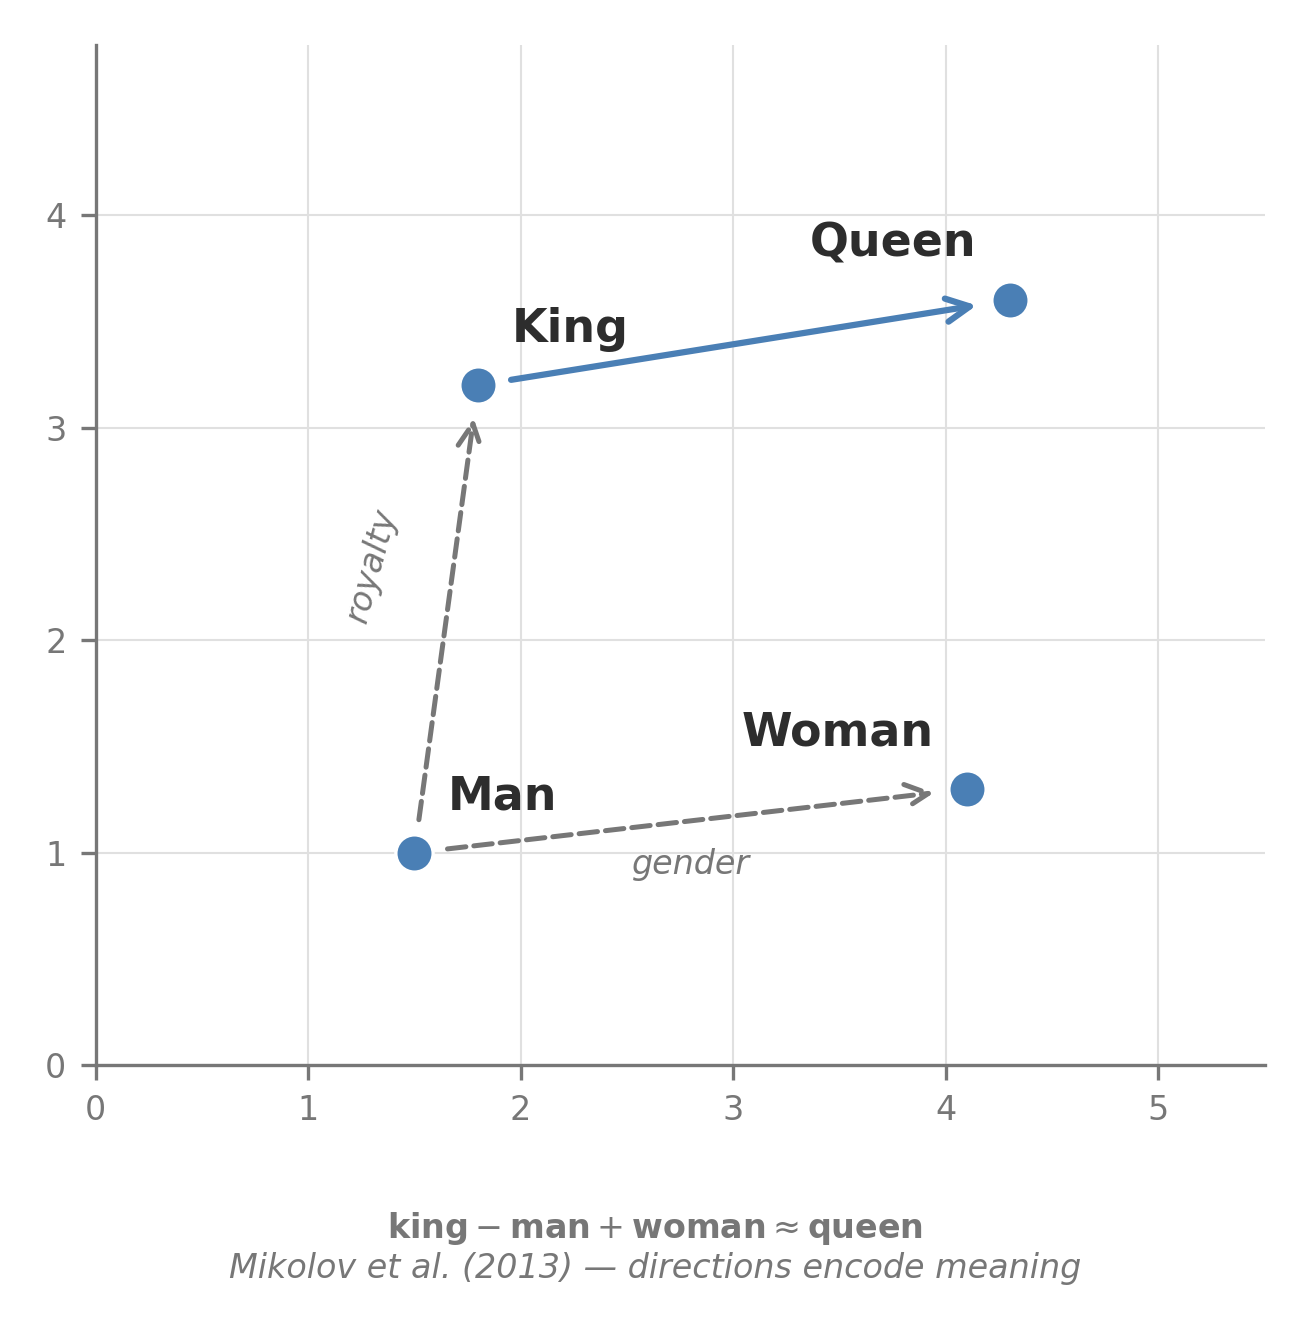
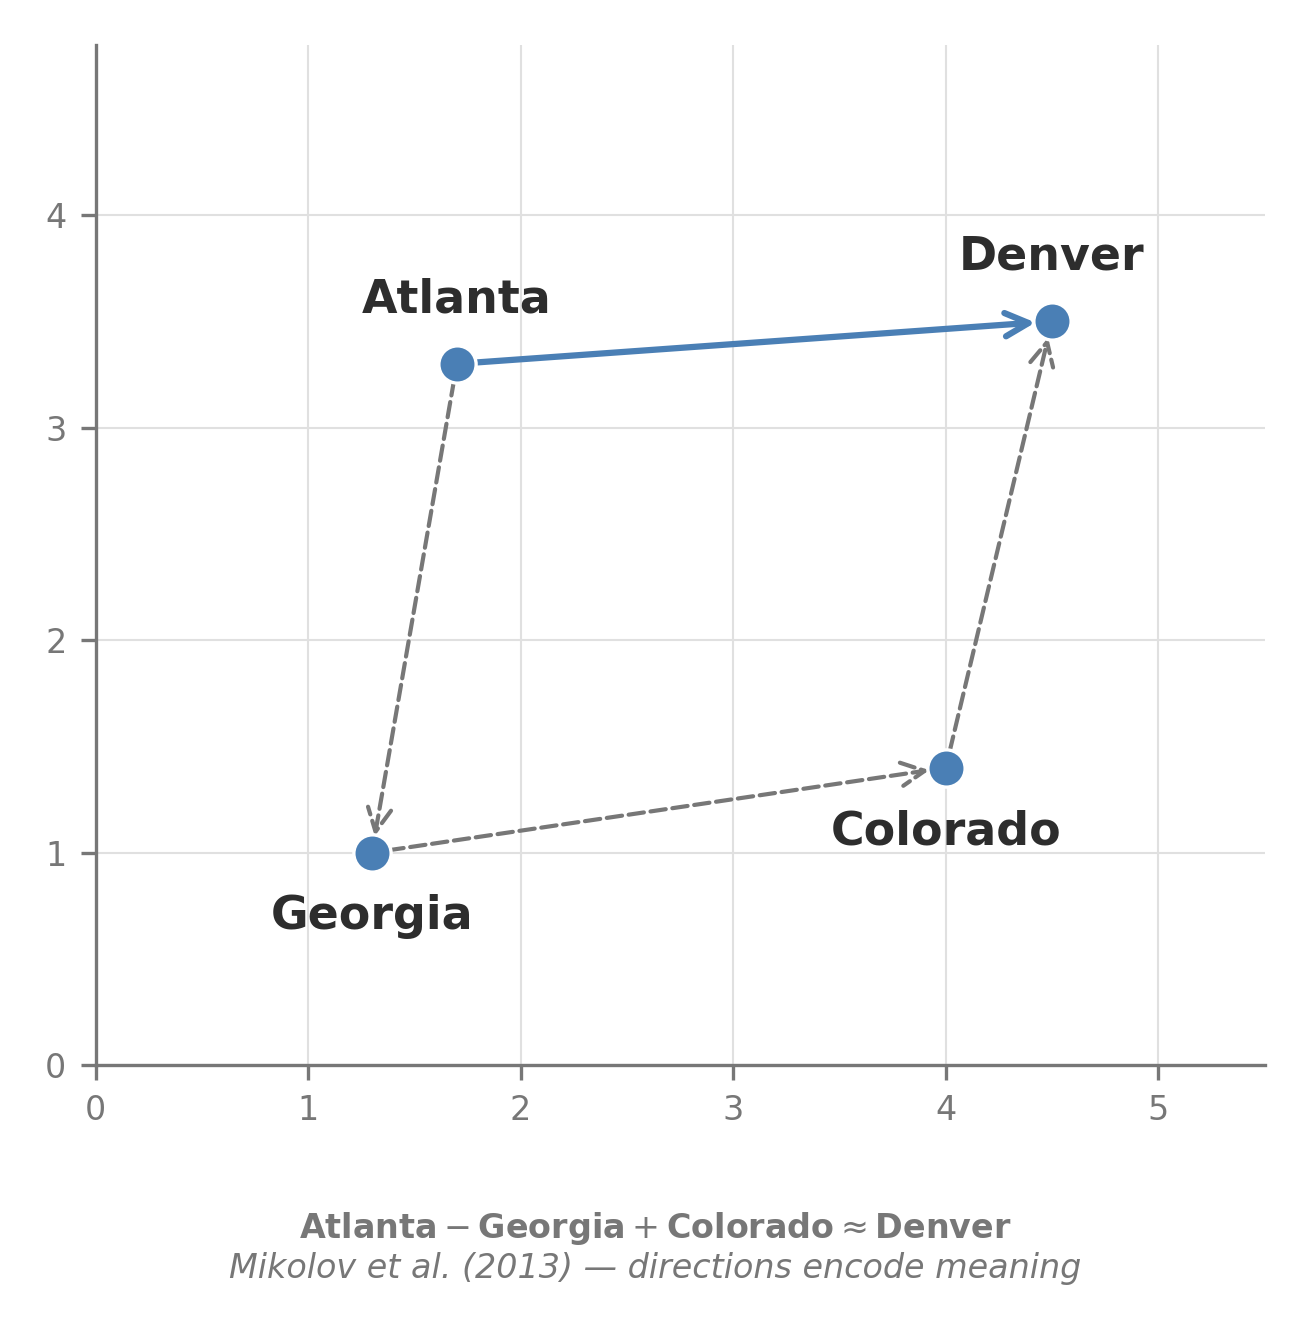
v0.7.10.4: Fig9 swap to Atlanta/Georgia/Colorado/Denver analogy

diff --git a/figures/fig9_word_analogy.py b/figures/fig9_word_analogy.py
@@ -1,5 +1,5 @@
 """
-Figure 9 — Word analogy illustration (King-Queen parallelogram)
+Figure 9 — Word analogy illustration (Atlanta/Denver parallelogram)
 Target: Slide 3 (right panel)
 Classic word embedding analogy from Mikolov et al. (2013).
 This is an ILLUSTRATION of the concept, not computed from MPNet.
@@ -14,12 +14,11 @@ from figures.style import (setup, PRIMARY, DARK, MID, GRID,
 font = setup()
 
 # Illustrative positions — approximate parallelogram (not perfect)
-# Based on typical Word2Vec PCA projections from literature
 points = {
-    'Man':    (1.5, 1.0),
-    'Woman':  (4.1, 1.3),
-    'King':   (1.8, 3.2),
-    'Queen':  (4.3, 3.6),
+    'Georgia':  (1.3, 1.0),
+    'Colorado': (4.0, 1.4),
+    'Atlanta':  (1.7, 3.3),
+    'Denver':   (4.5, 3.5),
 }
 
 fig, ax = plt.subplots(figsize=(4.5, 4.0))
@@ -31,41 +30,37 @@ ax.set_ylim(0, 4.8)
 ax.tick_params(axis='both', labelsize=FONT_TICK)
 ax.set_aspect('equal')
 
-# Points
+# Points and labels
 for word, (x, y) in points.items():
     ax.scatter(x, y, s=80, c=PRIMARY, edgecolors='white', linewidths=0.8, zorder=4)
-    # Offset labels to avoid overlapping dots
-    offset = (8, 8) if word in ('King', 'Man') else (-8, 8)
-    ha = 'left' if word in ('King', 'Man') else 'right'
+    # Top row (cities) — labels above; bottom row (states) — labels below
+    if word in ('Atlanta', 'Denver'):
+        offset = (0, 10)
+        va = 'bottom'
+    else:
+        offset = (0, -10)
+        va = 'top'
     ax.annotate(word, xy=(x, y), xytext=offset, textcoords='offset points',
                 fontsize=FONT_TITLE, fontweight='bold', color=DARK,
-                ha=ha, va='bottom', zorder=5)
+                ha='center', va=va, zorder=5)
 
-# Dashed arrows showing the two relationship vectors
-arrow_kw = dict(arrowstyle='->', color=MID, lw=1.2, linestyle='--',
-                shrinkA=8, shrinkB=8)
+# Grey dashed path: Atlanta → Georgia → Colorado → Denver
+path_arrow = dict(arrowstyle='->', color=MID, lw=1.0, linestyle='--',
+                  shrinkA=4, shrinkB=4)
 
-# Man → Woman (gender direction)
-ax.annotate('', xy=points['Woman'], xytext=points['Man'],
-            arrowprops=arrow_kw, zorder=3)
-mid_mw = ((points['Man'][0] + points['Woman'][0]) / 2,
-          (points['Man'][1] + points['Woman'][1]) / 2)
-ax.text(mid_mw[0], mid_mw[1] - 0.25, 'gender', ha='center', fontsize=FONT_TICK,
-        color=MID, fontstyle='italic')
+# Atlanta → Georgia  (the "− Georgia" step)
+ax.annotate('', xy=points['Georgia'], xytext=points['Atlanta'], arrowprops=path_arrow, zorder=3)
 
-# Man → King (royalty direction)
-ax.annotate('', xy=points['King'], xytext=points['Man'],
-            arrowprops=arrow_kw, zorder=3)
-mid_mk = ((points['Man'][0] + points['King'][0]) / 2,
-          (points['Man'][1] + points['King'][1]) / 2)
-ax.text(mid_mk[0] - 0.35, mid_mk[1], 'royalty', ha='center', fontsize=FONT_TICK,
-        color=MID, fontstyle='italic', rotation=75)
+# Georgia → Colorado  (the "+ Colorado" step)
+ax.annotate('', xy=points['Colorado'], xytext=points['Georgia'], arrowprops=path_arrow, zorder=3)
 
-# King → Queen (same gender direction, completing the parallelogram)
-ax.annotate('', xy=points['Queen'], xytext=points['King'],
-            arrowprops=dict(arrowstyle='->', color=PRIMARY, lw=1.5, linestyle='-',
-                            shrinkA=8, shrinkB=8),
-            zorder=3)
+# Colorado → Denver  (the "≈ Denver" arrival)
+ax.annotate('', xy=points['Denver'], xytext=points['Colorado'], arrowprops=path_arrow, zorder=3)
+
+# Blue solid arrow: Atlanta → Denver (the direct result)
+ax.annotate('', xy=points['Denver'], xytext=points['Atlanta'],
+            arrowprops=dict(arrowstyle='->', color=PRIMARY, lw=1.5,
+                            shrinkA=4, shrinkB=4), zorder=3)
 
 # Remove axis labels (grid numbers are enough)
 ax.set_xlabel('')
@@ -73,7 +68,7 @@ ax.set_ylabel('')
 
 # Attribution + formula subtitle
 add_subtitle(fig,
-             r'$\mathbf{king} - \mathbf{man} + \mathbf{woman} \approx \mathbf{queen}$'
+             r'$\mathbf{Atlanta} - \mathbf{Georgia} + \mathbf{Colorado} \approx \mathbf{Denver}$'
              + '\n' + 'Mikolov et al. (2013) \u2014 directions encode meaning',
              y=-0.08, fontsize=FONT_TICK)
 

diff --git a/LEDGER.md b/LEDGER.md
@@ -1,6 +1,6 @@
 # LEDGER.md — Task-Space Oracle Research State
 
-**Current Version:** 0.7.10.3
+**Current Version:** 0.7.10.4
 **Last Updated:** 2026-03-10
 **Paper Draft:** `paper/main.tex`
 
@@ -764,6 +764,7 @@ Deprecated approaches. Do not retry.
 | Version | Date | Changes |
 |---------|------|---------|
 | 0.7.9.3 | 2026-03-09 | Captions for fig3/fig4, swap fig5/fig6 to Budget vs Credit Analysts. |
+| 0.7.10.4 | 2026-03-10 | Fig9 royalty label position, arrow shrink. |
 | 0.7.10.3 | 2026-03-10 | Fig9 redesigned as Word2Vec illustration with attribution; fig8 arrow padding. |
 | 0.7.10.2 | 2026-03-10 | Docs alignment — figures README, SPEC, CLAUDE updated for presentation sprint. |
 | 0.7.10.1 | 2026-03-10 | Fig8/fig9 use live embeddings instead of hardcoded values. |
